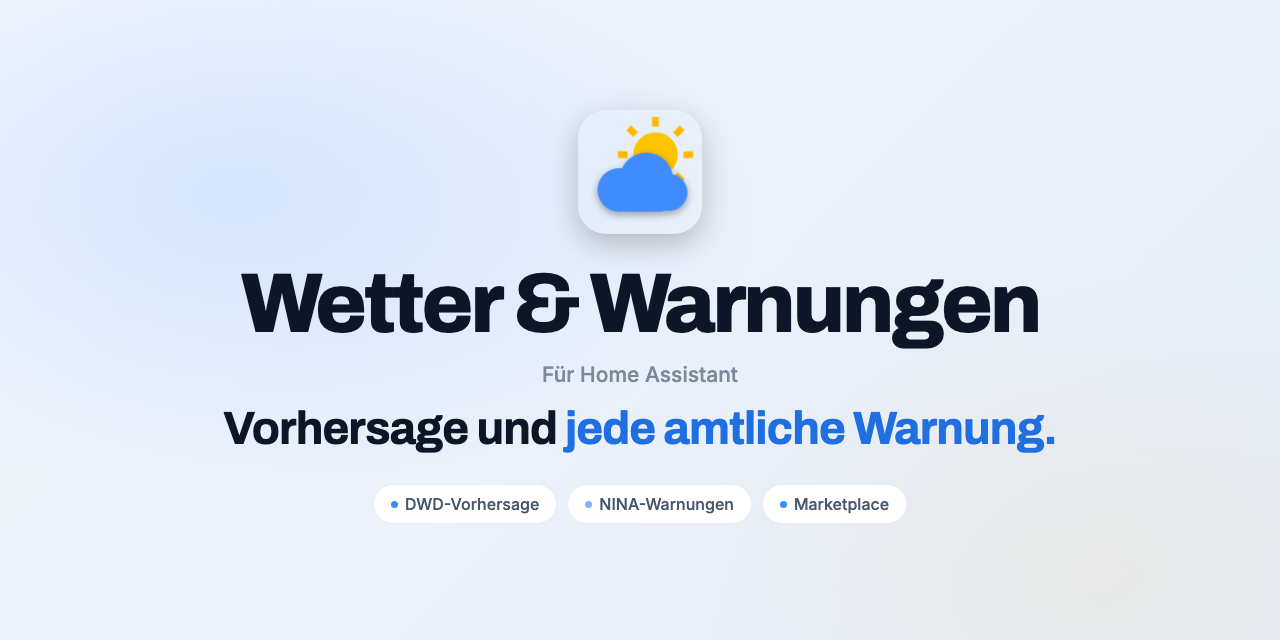
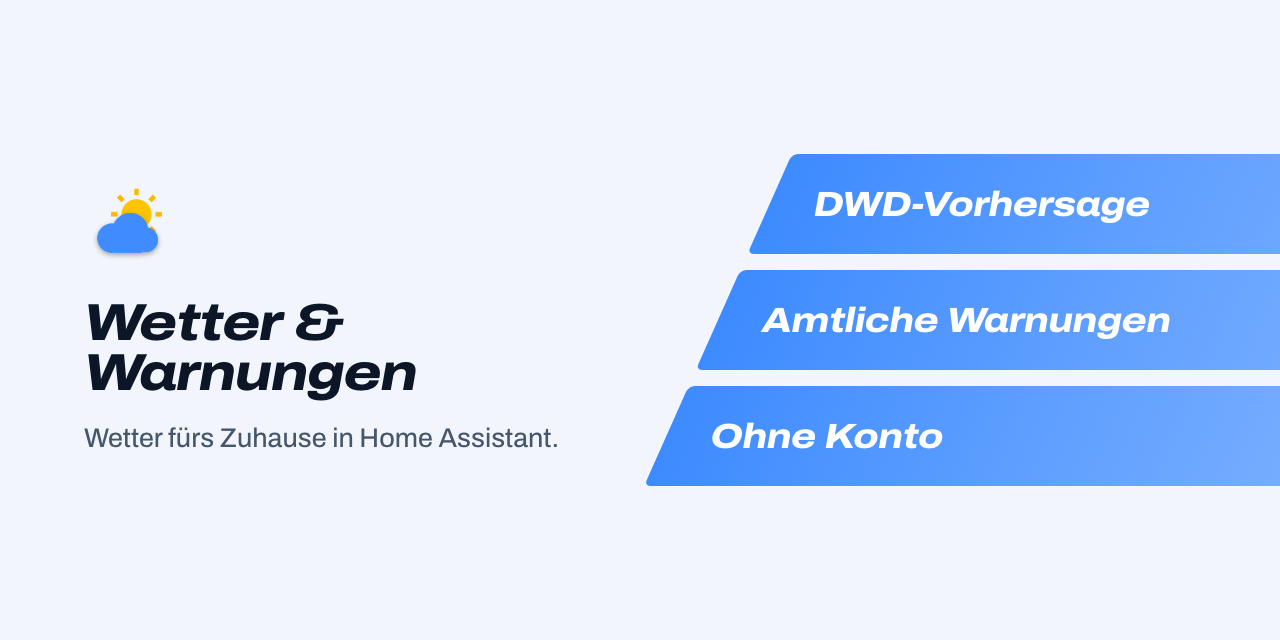
README and project page in the v2 design
Title banner with the lanes, Install and Set up as one Get started, shared
footer. The page loads theme v2 (Archivo from sh1ft-w.github.io), hero left
with the three key facts on the lanes.

Claude-Session: https://claude.ai/code/session_01TLmTtZLAvnS1BJ3w9tzxXq

Changed region(s): [[0.0625, 0.1875, 1.0, 0.8125], [0.3125, 0.7812, 0.4375, 0.8125]]

diff --git a/docs/index.html b/docs/index.html
@@ -14,21 +14,18 @@
 <meta property="og:locale" content="de_DE">
 <meta property="og:image" content="https://sh1ft-w.github.io/wetter-warnungen/images/readme-title-social.png">
 <link rel="icon" href="logo.png">
-<link rel="preconnect" href="https://fonts.googleapis.com">
-<link rel="preconnect" href="https://fonts.gstatic.com" crossorigin>
-<link href="https://fonts.googleapis.com/css2?family=Archivo:wght@600;700;800;900&family=Inter:wght@400;500;600&family=JetBrains+Mono:wght@400;500&display=swap" rel="stylesheet">
-<!-- Shared SH1FT-W design (tokens, glass navigation, light/dark, DE/EN, reveal) -->
-<link rel="stylesheet" href="https://sh1ft-w.github.io/theme/v1/theme.css">
-<script src="https://sh1ft-w.github.io/theme/v1/theme.js"></script>
+<!-- Shared SH1FT-W design, version 2 (tokens, Archivo, navigation, light/dark, DE/EN, the lanes) -->
+<link rel="stylesheet" href="https://sh1ft-w.github.io/theme/v2/theme.css">
+<script src="https://sh1ft-w.github.io/theme/v2/theme.js"></script>
 <style>
 /* Wetter-Palette: heller Himmel bei Tag, Nachthimmel im Dunkeln, Akzent #3D8BFF, Warnungen in Bernstein */
 :root {
   --accent: #3D8BFF; --accent-ink: #1F6FE0; --on-accent: #ffffff;
-  --sea: #2F7FF5; --sea-tint: rgba(61,139,255,0.11); --sea-glow: rgba(61,139,255,0.32); --aqua: #7CB2FF; --amber: #F5A524; --amber-tint: rgba(245,165,36,0.14);
+  --sea: #2F7FF5; --sea-tint: rgba(61,139,255,0.11); --aqua: #7CB2FF; --amber: #F5A524; --amber-tint: rgba(245,165,36,0.14);
   --ch-w: #8FA3B1; --ch-b: #2F7FD8; --ch-g: #2FA36A; --ch-r: #E0584A;
-  --font: "Inter", -apple-system, BlinkMacSystemFont, system-ui, sans-serif;
-  --display: "Archivo", "Inter", -apple-system, BlinkMacSystemFont, system-ui, sans-serif;
-  --mono: "JetBrains Mono", ui-monospace, "SF Mono", Menlo, monospace;
+  --font: "Archivo", -apple-system, BlinkMacSystemFont, system-ui, sans-serif;
+  --display: "Archivo", -apple-system, BlinkMacSystemFont, system-ui, sans-serif;
+  --mono: ui-monospace, "SF Mono", Menlo, monospace;
   --bg: #F2F6FC; --bg-2: #E3ECF8; --card: #FFFFFF; --card-2: #EEF3FA;
   --ink: #0B1424; --ink-2: #455569; --ink-3: rgba(11,20,36,0.56);
   --line: rgba(5,20,50,0.11); --chip: rgba(5,20,50,0.06);
@@ -39,7 +36,7 @@
 }
 @media (prefers-color-scheme: dark) { :root:not([data-theme="light"]) {
   --accent: #3D8BFF; --accent-ink: #7CB2FF; --on-accent: #ffffff;
-  --sea: #2F7DFF; --sea-tint: rgba(61,139,255,0.14); --sea-glow: rgba(61,139,255,0.30);
+  --sea: #2F7DFF; --sea-tint: rgba(61,139,255,0.14);
   --ch-w: #DCE6EC;
   --bg: #07101E; --bg-2: #0C182B; --card: #0F1D33; --card-2: #15253F;
   --ink: #EAF1FA; --ink-2: rgba(214,226,242,0.84); --ink-3: rgba(214,226,242,0.54);
@@ -49,7 +46,7 @@
 } }
 :root[data-theme="dark"] {
   --accent: #3D8BFF; --accent-ink: #7CB2FF; --on-accent: #ffffff;
-  --sea: #2F7DFF; --sea-tint: rgba(61,139,255,0.14); --sea-glow: rgba(61,139,255,0.30);
+  --sea: #2F7DFF; --sea-tint: rgba(61,139,255,0.14);
   --ch-w: #DCE6EC;
   --bg: #07101E; --bg-2: #0C182B; --card: #0F1D33; --card-2: #15253F;
   --ink: #EAF1FA; --ink-2: rgba(214,226,242,0.84); --ink-3: rgba(214,226,242,0.54);
@@ -75,7 +72,7 @@ code, .k { font-family: var(--mono); font-variant-numeric: tabular-nums; }
 .btn {
   display: inline-flex; align-items: center; justify-content: center; gap: 8px; height: 48px; padding: 0 24px; border-radius: 999px;
   font-family: inherit; font-size: 15px; font-weight: 600; line-height: 1; background: var(--sea); color: var(--on-accent); border: 0; cursor: pointer;
-  box-shadow: 0 12px 28px -12px var(--sea-glow); transition: transform .2s ease, filter .2s ease;
+  transition: transform .2s ease, filter .2s ease;
 }
 .btn:hover { text-decoration: none; filter: brightness(1.1); transform: translateY(-1px); }
 .btn.ghost { background: var(--card); color: var(--ink); box-shadow: var(--shadow); }
@@ -99,9 +96,6 @@ section.tint { background: var(--bg-2); }
 
 /* Hero */
 .hero { padding: clamp(56px, 9vw, 112px) 0 clamp(64px, 8vw, 104px); text-align: center; overflow: hidden; }
-.hero .glow { position: absolute; inset: -20% -10% auto; height: 90%; pointer-events: none;
-  background: radial-gradient(40% 36% at 30% 30%, rgba(61,139,255,0.20), transparent 70%), radial-gradient(36% 34% at 72% 24%, rgba(255,190,80,0.12), transparent 70%);
-  filter: blur(50px); }
 .hero .wrap { position: relative; }
 .hero .lead { max-width: 660px; margin-left: auto; margin-right: auto; }
 .cta { display: flex; flex-wrap: wrap; gap: 12px; justify-content: center; margin-top: 34px; }
@@ -109,9 +103,6 @@ section.tint { background: var(--bg-2); }
 .pill { display: inline-flex; align-items: center; gap: 6px; padding: 5px 12px; border-radius: 999px; background: var(--card); box-shadow: var(--shadow); font-weight: 600; color: var(--ink-2); font-size: 13px; }
 .pill i { width: 7px; height: 7px; border-radius: 50%; background: var(--aqua); display: inline-block; }
 
-/* Bühne: nur das Titelbild */
-.stage { position: relative; margin: clamp(48px, 7vw, 84px) auto 0; max-width: 1100px; }
-.stage .photo { display: block; width: 100%; height: auto; aspect-ratio: 2 / 1; border-radius: var(--radius-lg); box-shadow: var(--shadow-lg); }
 /* Bento: Gerade neu */
 .bento { display: grid; grid-template-columns: repeat(12, 1fr); gap: 16px; }
 .b { background: var(--card); border-radius: var(--radius); box-shadow: var(--shadow); padding: 26px 28px 28px; min-width: 0; }
@@ -248,6 +239,38 @@ footer .fine { flex-basis: 100%; line-height: 1.6; }
   .tbl td { border: 0; padding: 2px 0; }
   .tbl td:first-child { white-space: normal; }
 }
+
+/* ---- theme v2 ---- */
+:root { --lane-a: #2F7FF5; --lane-b: #7CB2FF; --radius: 20px; --radius-lg: 28px; --max: 1200px; }
+body { font-family: var(--font); }
+h1 { font-size: clamp(44px, 6vw, 84px); line-height: 1; font-weight: 800; font-stretch: 118%; font-style: italic; letter-spacing: -0.025em; }
+h2 { font-size: clamp(30px, 3.8vw, 48px); line-height: 1.08; font-weight: 750; font-stretch: 112%; letter-spacing: -0.02em; }
+h3 { font-stretch: 106%; }
+h1 em, h2 em { color: inherit !important; font-style: inherit; }
+.center { text-align: left; } .center .lead { margin-left: 0; margin-right: 0; }
+.head { max-width: 50em; }
+.eyebrow { text-transform: none; letter-spacing: 0; font-size: 16px; font-weight: 650; margin-bottom: 12px; }
+.eyebrow::before { display: none; }
+.cap { text-align: left; }
+.btn { border-radius: 12px; }
+.btn.ghost { background: var(--chip); box-shadow: none; }
+.pill { box-shadow: none; background: var(--chip); border-radius: 8px; }
+.b, .tile, .panel, .prof, .tbl, .faq details, .flow .lane { box-shadow: none; border: 1px solid var(--line); }
+.b .tag, .tg, .tbl thead th, .tbl .grp td { text-transform: none; letter-spacing: 0; font-size: 13px; }
+.b .tag, .tg { border-radius: 6px; }
+.tile .ico, .shield .ico { border-radius: 10px; }
+.hero { text-align: left; padding: clamp(48px, 7vw, 96px) 0 clamp(56px, 7vw, 96px); overflow: hidden; }
+.hero .wrap { display: grid; grid-template-columns: minmax(0, 1.15fr) minmax(0, 1fr); gap: clamp(24px, 4vw, 64px); align-items: center; }
+.hero .mark { width: 64px; height: 64px; border-radius: 15px; margin-bottom: 26px; }
+.hero .lead { margin-left: 0; max-width: 34em; }
+.hero .cta, .hero .meta { justify-content: flex-start; }
+.hero .s-lanes { margin-right: calc(-1 * var(--gutter) - 14vw); }
+.s-track b { color: #fff; font: italic 800 clamp(20px, 2.5vw, 34px)/1 var(--font); font-stretch: 116%; letter-spacing: -0.015em; white-space: nowrap; }
+@media (max-width: 900px) { .hero .wrap { grid-template-columns: 1fr; } .hero .s-lanes { margin: 8px calc(-1 * var(--gutter) - 8vw) 0 44px; } }
+.hero h1 { font-size: clamp(40px, 5vw, 68px); }
+@media (max-width: 900px) { .nav-links { display: none; } .nav > .iconbtn { margin-left: auto; } .nav > .btn, .nav .btn { margin-left: 0; } }
+@media (max-width: 480px) { .nav .brand { font-size: 14px; gap: 6px; white-space: nowrap; } .nav { gap: 6px; } .nav > .btn.small { padding: 0 10px; } }
+@media (max-width: 760px) { .tbl td:first-child { white-space: normal; } }
 </style>
 </head>
 <body>
@@ -271,25 +294,24 @@ footer .fine { flex-basis: 100%; line-height: 1.6; }
 </div>
 
 <section class="hero" id="top">
-  <div class="glow" aria-hidden="true"></div>
   <div class="wrap">
-    <p class="eyebrow reveal">Wetter für Deutschland in Home Assistant</p>
-    <h1 class="reveal d1">Wetter und<br><em>jede amtliche Warnung.</em></h1>
-    <p class="lead reveal d2">Wetter &amp; Warnungen holt <strong>die Vorhersage des Deutschen Wetterdienstes, die nächste Station und alle amtlichen Warnungen</strong> nach Home Assistant: DWD für deine Gemeinde, MoWaS, KATWARN, BIWAPP, Hochwasser und Polizei für deinen Kreis. Startet sofort, ohne Konto, ohne Schlüssel.</p>
-    <div class="cta reveal d3">
-      <a class="btn" href="#install">Über den Marketplace installieren</a>
-      <a class="btn ghost" href="https://github.com/SH1FT-W/wetter-warnungen#readme">Zur Anleitung</a>
+    <div>
+      <img class="mark" src="logo.png" alt="" width="64" height="64">
+      <h1>Wetter und jede amtliche Warnung.</h1>
+      <p class="lead reveal d2">Wetter &amp; Warnungen holt <strong>die Vorhersage des Deutschen Wetterdienstes, die nächste Station und alle amtlichen Warnungen</strong> nach Home Assistant: DWD für deine Gemeinde, MoWaS, KATWARN, BIWAPP, Hochwasser und Polizei für deinen Kreis. Startet sofort, ohne Konto, ohne Schlüssel.</p>
+      <div class="cta reveal d3">
+        <a class="btn" href="#install">Über den Marketplace installieren</a>
+        <a class="btn ghost" href="https://github.com/SH1FT-W/wetter-warnungen#readme">Zur Anleitung</a>
+      </div>
+      <p class="meta reveal d3">
+        <span class="pill"><i></i><span id="hl-version">Version 26.11.3</span></span>
+        Home Assistant 2026.9 oder neuer &middot; Deutsch und Englisch &middot; Apache 2.0
+      </p>
     </div>
-    <p class="meta reveal d3">
-      <span class="pill"><i></i><span id="hl-version">Version 26.11.3</span></span>
-      Home Assistant 2026.9 oder neuer &middot; Deutsch und Englisch &middot; Apache 2.0
-    </p>
-
-    <div class="stage reveal d3">
-      <picture>
-        <source media="(prefers-color-scheme: dark)" srcset="images/readme-title-dark.webp">
-        <img class="photo" src="images/readme-title-light.webp" width="2560" height="1280" alt="Wetter & Warnungen: Vorhersage und jede amtliche Warnung.">
-      </picture>
+    <div class="s-lanes" aria-hidden="true">
+      <div class="s-lane"><div class="s-track"><b>DWD-Vorhersage</b></div></div>
+      <div class="s-lane"><div class="s-track"><b>Amtliche Warnungen</b></div></div>
+      <div class="s-lane"><div class="s-track"><b>Ohne Konto</b></div></div>
     </div>
   </div>
 </section>

diff --git a/README.md b/README.md
@@ -2,14 +2,14 @@
 
 <picture>
   <source media="(prefers-color-scheme: dark)" srcset="docs/images/readme-title-dark.webp" />
-  <img src="docs/images/readme-title-light.webp" alt="Wetter & Warnungen: Vorhersage und jede amtliche Warnung." />
+  <img src="docs/images/readme-title-light.webp" alt="Wetter &amp; Warnungen: Wetter fürs Zuhause in Home Assistant. DWD-Vorhersage. Amtliche Warnungen. Ohne Konto." />
 </picture>
 
 [![Version](https://img.shields.io/badge/dynamic/json?url=https%3A%2F%2Fraw.githubusercontent.com%2FSH1FT-W%2Fwetter-warnungen%2Fmain%2Fcustom_components%2Fwetter%2Fmanifest.json&query=%24.version&label=Version&style=flat-square&color=3D8BFF&labelColor=111111)](https://github.com/SH1FT-W/wetter-warnungen/releases/latest)
 [![Home Assistant](https://img.shields.io/badge/Home%20Assistant-2026.9%2B-3D8BFF?style=flat-square&labelColor=111111&logo=homeassistant&logoColor=white)](https://www.home-assistant.io)
 [![Marketplace](https://img.shields.io/badge/Marketplace-Standard-3D8BFF?style=flat-square&labelColor=111111)](https://hacs.xyz)
 
-<a href="https://sh1ft-w.github.io/wetter-warnungen"><b>Website</b></a>&emsp;<a href="#installation">Installation</a>&emsp;<a href="#einrichtung">Einrichtung</a>&emsp;<a href="#entitaeten">Entitäten</a>&emsp;<a href="CHANGELOG.md">Änderungen</a>
+<a href="https://sh1ft-w.github.io/wetter-warnungen"><b>Website</b></a>&emsp;<a href="#loslegen">Loslegen</a>&emsp;<a href="#entitaeten">Entitäten</a>&emsp;<a href="#beispiele">Beispiele</a>&emsp;<a href="CHANGELOG.md">Änderungen</a>
 
 </div>
 
@@ -22,7 +22,7 @@ Das Wetter an deinem Zuhause in Home Assistant: die **Vorhersage des Deutschen W
 > [!NOTE]
 > Die Warnungen hier ersetzen nicht die offiziellen Warnwege (NINA-App, Radio, Sirenen).
 
-## Was woher kommt
+## Was du bekommst
 
 | Was | Quelle | Wie oft |
 |:--|:--|:--|
@@ -37,12 +37,19 @@ Ist eine Quelle nicht erreichbar, bleiben ihre letzten Warnungen stehen: **keine
 
 **Neu in 26.11:** Pollenflug und UV-Index, *Regen in X Minuten* und Ereignisse je Warnung; Warnungen der höchsten Stufe erscheinen sofort. Alle Änderungen stehen im [Changelog](CHANGELOG.md).
 
-<a id="installation"></a>
-## Installation
+<a id="loslegen"></a><a id="installation"></a><a id="einrichtung"></a>
+## Loslegen
 
 [![Im Marketplace öffnen](https://my.home-assistant.io/badges/hacs_repository.svg)](https://my.home-assistant.io/redirect/hacs_repository/?owner=SH1FT-W&repository=wetter-warnungen&category=integration)
 
-Unter **Einstellungen > Marketplace** (vor Home Assistant 2026.11 heißt er HACS) nach **Wetter & Warnungen** suchen, herunterladen und Home Assistant neu starten.
+Du brauchst Home Assistant 2026.9 oder neuer und einen Ort in Deutschland.
+
+1. **Installieren.** Unter **Einstellungen > Marketplace** (vor Home Assistant 2026.11 heißt er HACS) nach **Wetter & Warnungen** suchen, herunterladen und Home Assistant neu starten.
+2. **Integration hinzufügen.** **Einstellungen > Geräte & Dienste > Integration hinzufügen > Wetter & Warnungen.** Der **Name** gibt den Entitäten ihren Namen („Wetter“ ergibt `weather.wetter`), der **Ort** ist mit dem Zuhause vorbelegt. Die Integration fragt einmal bei Bright Sky nach, ob es dort Daten gibt. Jeder Ort lässt sich nur einmal einrichten.
+3. **Werte aus der Nachbarschaft (optional).** Unter **Konfigurieren** nimmt jedes Feld einen vorhandenen Sensor, egal von welchem Hersteller (Ecowitt, Davis, Shelly, Netatmo und andere). Leer bedeutet DWD-Station. Gut geeignet sind Temperatur, Luftfeuchte und Niederschlag der letzten Stunde; Luftdruck nur, wenn er auf Meereshöhe umgerechnet ist, Wind nur von frei stehenden Windmessern. Einen Netatmo-Wetterbereich trägt die Integration selbst ein; andere Sensoren schlägt sie nicht vor, weil sie nicht weiß, ob ein Thermometer draußen hängt.
+4. **Pollenflug und UV-Index** sind an. Der Schalter in den Optionen entfernt sie, dann fragt die Integration den DWD-Server dafür nicht mehr.
+
+Den Ort später ändern: **Drei-Punkte-Menü > Neu konfigurieren**. Entitäten, Optionen und Verlauf bleiben.
 
 <details>
 <summary>Von Hand installieren</summary>
@@ -51,17 +58,6 @@ Unter **Einstellungen > Marketplace** (vor Home Assistant 2026.11 heißt er HACS
 2. Den Ordner `custom_components/wetter` nach `/config/custom_components/` kopieren und Home Assistant neu starten.
 
 </details>
-
-<a id="einrichtung"></a>
-## Einrichtung
-
-Du brauchst Home Assistant 2026.9 oder neuer und einen Ort in Deutschland.
-
-1. **Integration hinzufügen.** **Einstellungen > Geräte & Dienste > Integration hinzufügen > Wetter & Warnungen.** Der **Name** gibt den Entitäten ihren Namen („Wetter“ ergibt `weather.wetter`), der **Ort** ist mit dem Zuhause vorbelegt. Die Integration fragt einmal bei Bright Sky nach, ob es dort Daten gibt. Jeder Ort lässt sich nur einmal einrichten.
-2. **Werte aus der Nachbarschaft (optional).** Unter **Konfigurieren** nimmt jedes Feld einen vorhandenen Sensor, egal von welchem Hersteller (Ecowitt, Davis, Shelly, Netatmo und andere). Leer bedeutet DWD-Station. Gut geeignet sind Temperatur, Luftfeuchte und Niederschlag der letzten Stunde; Luftdruck nur, wenn er auf Meereshöhe umgerechnet ist, Wind nur von frei stehenden Windmessern. Einen Netatmo-Wetterbereich trägt die Integration selbst ein; andere Sensoren schlägt sie nicht vor, weil sie nicht weiß, ob ein Thermometer draußen hängt.
-3. **Pollenflug und UV-Index** sind an. Der Schalter in den Optionen entfernt sie, dann fragt die Integration den DWD-Server dafür nicht mehr.
-
-Den Ort später ändern: **Drei-Punkte-Menü > Neu konfigurieren**. Entitäten, Optionen und Verlauf bleiben.
 
 <a id="entitaeten"></a>
 ## Entitäten
@@ -94,6 +90,7 @@ Alle gehören zu einem Dienst-Gerät je Ort. Die IDs gelten für den Namen **Wet
 
 </details>
 
+<a id="beispiele"></a>
 ## Beispiele
 
 Genau eine Nachricht je neuer Warnung, auch nach einem Neustart nicht doppelt:
@@ -246,3 +243,11 @@ Testpakete: `uv venv && uv pip install -r requirements_test.txt pytest-cov`. Die
 [Apache License 2.0](LICENSE), Copyright 2026 SH1FT-W. Wetterdaten und DWD-Warnungen: Quelle Deutscher Wetterdienst, CC BY 4.0, siehe [`NOTICE`](NOTICE).
 
 <sub>Wetter &amp; Warnungen ist ein unabhängiges Projekt. Es gehört weder zum Deutschen Wetterdienst, zum Bundesamt für Bevölkerungsschutz und Katastrophenhilfe (BBK) noch zu Bright Sky und wird von ihnen nicht unterstützt.</sub>
+
+<br/>
+
+<div align="center">
+<a href="https://sh1ft-w.github.io"><img src="https://sh1ft-w.github.io/readme/footer.png" width="640" alt="Alle SH1FT-W-Projekte"></a>
+<br/>
+<sub>Mehr Open Source für Home Assistant und den Mac auf <a href="https://sh1ft-w.github.io">sh1ft-w.github.io</a></sub>
+</div>

diff --git a/CLAUDE.md b/CLAUDE.md
@@ -47,7 +47,7 @@ AwesomeVersion: `26.10.x` gilt als neuer als das alte `1.3.4`. Jede Änderung in
 - GitHub Actions: `.github/workflows/pruefung.yml` (Vorlage repo-vorlagen/vorlagen/ci-ha-integration.yml, COV_MIN 98)
   bei Push/PR und montags gegen die neueste HA; `.github/workflows/hacs.yml` (HACS-Prüfung, läuft nur im
   öffentlichen Repo).
-- README-Bilder: Titelbild aus `docs/readme-images.json` mit `theme/v1/readme-images/render.mjs <repo>`
-  aus sh1ft-w.github.io: Titel als `docs/images/readme-title-{light,dark}.webp` (2560 × 1280, Fenster zeigt
-  `docs/images/title-shot-*.png`, den Funktionsblock der Projektseite mit 2× aufgenommen) plus `readme-title-social.png`
-  für die GitHub-Vorschau; README-Aufbau nach `repo-vorlagen/readme-muster.md`, ohne Kartentabellen. Die Projektseite `docs/index.html` (nur Deutsch) zeigt das Titelbild im Hero, Versionszeile liest die manifest.json.
+- README-Bilder aus `docs/readme-images.json` mit `theme/v2/readme-images/render.mjs <repo>` aus sh1ft-w.github.io:
+  Titel-Banner `docs/images/readme-title-{light,dark}.webp` (2560 × 880) plus `readme-title-social.png` (1280 × 640) für die
+  GitHub-Vorschau, aus `title.name`, `title.line` und drei `title.lanes`. README- und Seitenaufbau nach
+  `repo-vorlagen/readme-muster.md` (Design v2: Hero mit den drei Bahnen, kein Titelbild im Hero). Die Projektseite `docs/index.html` ist nur deutsch, die Versionszeile liest die manifest.json.
